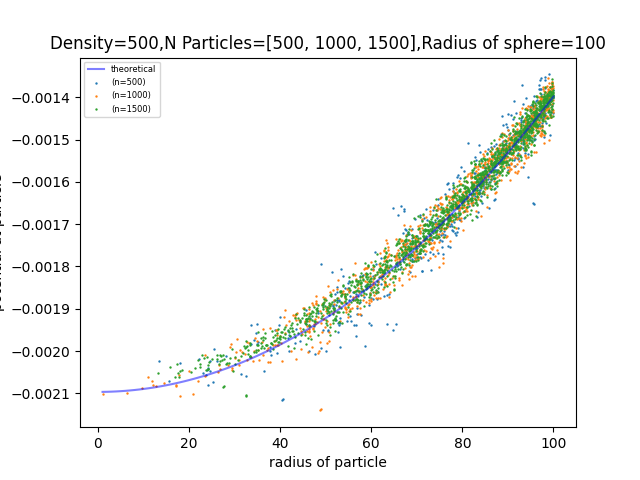
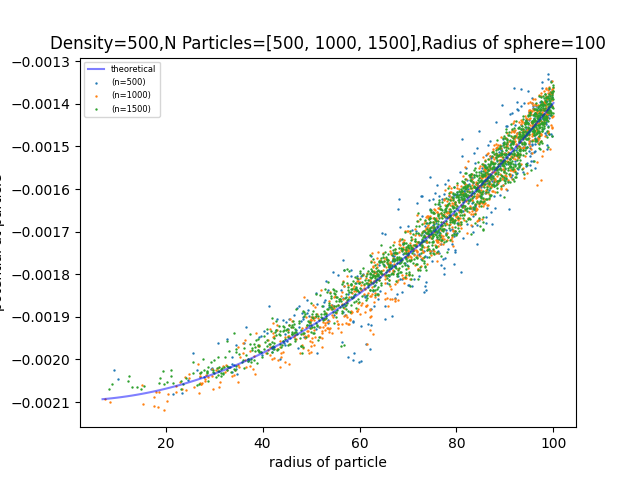
reorganize

diff --git a/useful_plots.py b/useful_plots.py
@@ -1,34 +1,13 @@
 # %% codecell
 
 from calculations import *
-from model import *
 import matplotlib.pyplot as plt
 import numpy as np
 from math import floor,ceil
 
 # %% codecell
 
-def plot_model_theory(density=None,n_particles=None,radius=None,model=potential_model,file=None):
-    if not (type(n_particles) is list or isinstance(n_particles, np.ndarray)):
-        n_particles = [n_particles]
-    rs = [i/100 for i in range(0,101)]
-    analytic = [get_phi(density=density,radius=radius,point=r) for r in rs]
-    plt.plot(rs,analytic,'--',label="theoretical",linewidth=1.1)
-    for idx,n in enumerate(n_particles):
-        model = [potential_model(density=density,n_particles=n,radius=radius,point=r) for r in rs]
-        plt.plot(rs,model,label="n="+"{:.0e}".format(n),linewidth=0.7)
-
-    plt.title("Density="+str(density)+",Radius of sphere="+str(radius))
-    plt.xlabel("radius of particle")
-    plt.ylabel("potential at particle")
-    plt.legend(prop={'size': 6})
-    plt.show()
-
-'''
-plot_model_theory(density=500,n_particles=list(range(10000000,100000000,10000000)),radius=100)
-'''
-
-def plot_r_potential(density=None,n_particles=None,radius=None,model=potential_model,file=None,eps=0):
+def plot_r_potential(density=None,n_particles=None,radius=None,file=None,eps=0):
 
     if not (type(n_particles) is list or isinstance(n_particles, np.ndarray)):
         n_particles = [n_particles]
@@ -43,14 +22,6 @@ def plot_r_potential(density=None,n_particles=None,radius=None,model=potential_m
             min = np.min(rs)
         if np.max(rs) > max:
             max = np.max(rs)
-        #print([r/a for r in cont_r])
-        if model != None:
-            model = [potential_model(density=density,n_particles=n,radius=radius,point=r/radius) for r in cont_r]
-            if idx > 0:
-                plt.plot(cont_r,model,zorder=1,color="red",alpha=0.5)
-                #plt.plot(cont_r,analytic,zorder=1,color="blue",alpha=0.5)
-            else:
-                plt.plot(cont_r,model,zorder=1,color="red",alpha=0.5,label="model")
 
         plt.scatter(rs,phis,zorder=0,s=0.5,label="(n="+str(n)+")")
 
@@ -72,10 +43,10 @@ n = [500,1000,1500]
 #n = 100
 a = 100
 file = "p" + str(p) + "n" + str(n) + "a" + str(a)
-plot_r_potential(density=p,n_particles=n,radius=a,eps=0,model=None,file=file)
+plot_r_potential(density=p,n_particles=n,radius=a,eps=0,file=file)
 
 
-def plot_radius_potential(density=None,n_particles=None,point=1,model=potential_model,show_theory=False,step=10,repeats=1,start=10,upper_limit=2000):
+def plot_radius_potential(density=None,n_particles=None,point=1,show_theory=False,step=10,repeats=1,start=10,upper_limit=2000):
     if not (type(density) is list or isinstance(density, np.ndarray)):
         density = [density]
 
@@ -118,11 +89,7 @@ def plot_radius_potential(density=None,n_particles=None,point=1,model=potential_
                     label = ""
                     legend = False
 
-                if model != None:
-                    modeled = np.array([model(n_particles=n,density=p,radius=radius,point=r) for radius in xs])
-                    overlay_plot.plot(xs,modeled,alpha=1, label = "MODL" + label,zorder=1)
-
-                if model != None or show_theory:
+                if show_theory:
                     mctslabel = "MCTS" + label
                 else:
                     mctslabel = label
@@ -130,7 +97,7 @@ def plot_radius_potential(density=None,n_particles=None,point=1,model=potential_
                 if show_theory:
                     overlay_plot.plot(xs,theorys,alpha=0.8, label = "THRY" + label,zorder=0)
 
-    if model != None or show_theory:
+    if show_theory:
         legend = True
     overlay_plot.set_xlabel('Radius')
     overlay_plot.set_ylabel('Potential')
@@ -149,44 +116,7 @@ def plot_radius_potential(density=None,n_particles=None,point=1,model=potential_
     fig.tight_layout()
     plt.show()
 
-#plot_radius_potential(density=100,n_particles=10,point=[0,0.1,0.2,0.3,0.4,0.5,0.6,0.7,0.8,0.9,1],repeats=100,model=None,start=400,upper_limit=500)
-
-def plot_calculated_modeled_diff_radius_potential(density,n_particles,model=potential_model,step=10,repeats=1,start=10,upper_limit=2000,point="radius"):
-    diffs = []
-    theorys = []
-    programs = []
-    xs = []
-    for i in range(start,upper_limit,step):
-        xs.append(i)
-        theorys.append(get_phi(n_particles=n_particles,density=density,radius=i))
-        diff = 0
-        programmatics = 0
-        for j in range(repeats):
-            temp,theory,programmatic = get_diff(n_particles=n_particles,density=density,radius=i,point=point)
-            programmatics += programmatic
-            diff += temp
-        programmatics = programmatics/repeats
-        programs.append(programmatics)
-        diff = abs(diff/repeats)
-        diffs.append(diff)
-
-    modeled = np.array([model(n_particles,density,radius) for radius in xs])
-
-    fig, (overlay_plot) = plt.subplots(1,1)
-
-    #overlay_plot.plot(list(range(start,upper_limit)),modeled,alpha=0.4, label = "Modeled")
-    overlay_plot.plot(xs,programs-modeled,alpha=0.4, label = "Calculated - Modeled")
-    #overlay_plot.plot(xs,theorys,alpha=0.8, label = "Theoretical")
-    overlay_plot.set_xlabel('Radius')
-    overlay_plot.set_ylabel('Potential')
-    overlay_plot.legend(loc ="upper right")
-    overlay_plot.set_title('Variable Radius, Density = ' + str(density) + ', N = ' + str(n_particles) + ', Average of = ' + str(repeats) + ', Measured from ' + point, pad=12)
-
-    fig.suptitle('Calculated/Modeled Difference',fontsize=16)
-    fig.tight_layout()
-    plt.show()
-
-def plot_n_potential(density=None,radius=None,point=1,show_theory=False,model=potential_model,repeats=1,step=10,start=10,upper_limit=3000):
+def plot_n_potential(density=None,radius=None,point=1,show_theory=False,repeats=1,step=10,start=10,upper_limit=3000):
     if not (type(density) is list or isinstance(density, np.ndarray)):
         density = [density]
 
@@ -228,12 +158,7 @@ def plot_n_potential(density=None,radius=None,point=1,show_theory=False,model=po
                 if len(radius) == 1 and len(density) == 1 and len(point) == 1:
                     label = ""
 
-                if model != None:
-                    modeled = np.array([model(n_particles=n,density=p,radius=a,point=r) for n in xs])
-                    #print(r,np.mean(np.array(programs)/modeled))
-                    overlay_plot.plot(xs,modeled,alpha=0.8, label = "MODL" + label)
-
-                if model != None or show_theory:
+                if show_theory:
                     mctslabel = "MCTS" + label
                 else:
                     mctslabel = label
@@ -254,137 +179,6 @@ def plot_n_potential(density=None,radius=None,point=1,show_theory=False,model=po
     overlay_plot.set_title(title, pad=12)
 
     fig.suptitle('N Particles/Potential',fontsize=16)
-    fig.tight_layout()
-    plt.show()
-
-#plot_n_potential(density=[100],radius=[100],point=[0.1,0.3,0.6,0.9,1],repeats=30,start=10,upper_limit=50,step=2,model=potential_model)
-
-def plot_calculated_modeled_diff_n_potential(density=None,radius=None,point=1,repeats=1,step=10,start=10,upper_limit=3000,ylim=None,square=True):
-
-    if not (type(repeats) is list or isinstance(repeats, np.ndarray)):
-        repeats = [repeats]
-
-    fig, (diff_plot) = plt.subplots(1,1)
-
-    for zorder,repeat in enumerate(repeats):
-        programs = []
-        xs = list(range(start,upper_limit,step))
-        theorys = [get_phi(density=density,radius=radius,point=point)] * len(xs)
-        for n in xs:
-            programmatics = 0
-            for j in range(repeat):
-                programmatic = get_programmatic(density=density,radius=radius,n_particles=n,point=point)
-                programmatics += programmatic
-            programmatics = programmatics/repeat
-            programs.append(programmatics)
-        programs = np.array(programs)
-        modeled = np.array([potential_model(n,density,radius,point=point) for n in xs])
-        diff = programs-modeled
-        if square:
-            diff = diff**2
-        diff_plot.plot(xs,diff,label="sims="+str(repeat),alpha=1,zorder=zorder)
-    #diff_plot.plot(list(range(start,n)),modeled,alpha=0.4, label = "Modeled")
-    #diff_plot.plot(xs,theorys,alpha=0.8, label = "Theoretical")
-
-    diff_plot.set_xlabel('N Particles')
-    diff_plot.set_ylabel('Potential')
-    if ylim != None:
-        if square:
-            diff_plot.set_ylim([-0.01*ylim,ylim])
-        else:
-            diff_plot.set_ylim([-ylim,ylim])
-    diff_plot.legend(loc ="upper right")
-    diff_plot.set_title('varying n,p= ' + str(density) + ',a= ' + str(radius) + ',r=' + str(point) + 'a', pad=12)
-
-    fig.suptitle('Calculated/Modeled Difference for N Particles/Potential',fontsize=16)
-    plt.legend()
-    fig.tight_layout()
-    plt.show()
-
-#plot_calculated_modeled_diff_n_potential(density=100,radius=100,point=1,repeats=[10,50,100,300],upper_limit=100,step=1,ylim=1000)
-
-def get_rms_data(density,n_particles,radius,repeats=500):
-
-    expected = potential_model(n_particles,density,radius)
-
-    data = []
-    for rep in range(repeats):
-        temp,theory,programmatic = get_diff(n_particles=n_particles,density=density,radius=radius)
-        data.append(programmatic)
-
-    return expected,np.array(data)
-
-def find_outliers(data,m=1.5):
-    mean,std = np.mean(data),np.std(data)
-    return abs(data - mean) < abs(std*m)
-
-def get_rms(expected,data):
-    squares = (expected-data)**2
-    rm = np.sum(squares)/len(squares)
-    return np.sqrt(rm)
-
-def plot_rms_n_potential(density,radius,repeats=1,step=10,start=10,upper_limit=500,point="radius"):
-
-    rms = []
-    ns = list(range(start,upper_limit,step))
-    for n in ns:
-        temp_rms = 0
-        for i in range(repeats):
-            expected,data = get_rms_data(density,n,radius)
-
-            data = data[find_outliers(data)]
-
-            temp_rms += get_rms(expected,data)
-
-        temp_rms /= repeats
-
-        rms.append(temp_rms)
-
-    data = [rms_model(n,density,radius) for n in ns]
-
-    fig, (rms_plot) = plt.subplots(1,1)
-
-    plt.plot(ns,data,label="Modeled")
-    plt.plot(ns,rms,label="Calculated")
-    plt.legend()
-
-    rms_plot.set_title('Variable N, Density = ' + str(density) + ', Radius = ' + str(radius) + ', Average of = ' + str(repeats) + ', Step = ' + str(step) + ', Measured from ' + point, pad=12)
-    rms_plot.set_xlabel('N Particles')
-    rms_plot.set_ylabel('RMS Error')
-
-    fig.suptitle('Calculated vs Modeled RMS Error',fontsize=16)
-    fig.tight_layout()
-    plt.show()
-
-def plot_rms_diff_n_potential(density,radius,repeats=1,step=10,start=10,upper_limit=500,point="radius"):
-
-    rms = []
-    ns = list(range(start,upper_limit,step))
-    for n in ns:
-        temp_rms = 0
-        for i in range(repeats):
-            expected,data = get_rms_data(density,n,radius)
-
-            data = data[find_outliers(data)]
-
-            temp_rms += get_rms(expected,data)
-
-        temp_rms /= repeats
-
-        rms.append(temp_rms)
-
-    data = np.array([rms_model(n,density,radius) for n in ns])
-
-    fig, (rms_plot) = plt.subplots(1,1)
-
-    plt.plot(ns,rms-data,label="Calculated-Modeled")
-    plt.legend()
-
-    rms_plot.set_title('Variable N, Density = ' + str(density) + ', Radius = ' + str(radius) + ', Average of = ' + str(repeats) + ', Step = ' + str(step) + ', Measured from ' + point, pad=12)
-    rms_plot.set_xlabel('N Particles')
-    rms_plot.set_ylabel('Delta RMS Error')
-
-    fig.suptitle('Calculated/Modeled RMS Error Difference',fontsize=16)
     fig.tight_layout()
     plt.show()
 
@@ -440,6 +234,3 @@ def plot_particles(radius,n_particles,scale=20):
     fig.tight_layout(w_pad=5)
 
     plt.show()
-
-#plot_particles(100,10
-""
